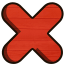
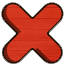
Close button position fix

Changed region(s): [[0.0, 0.0303, 0.9697, 0.9697]]

diff --git a/markup/modules/Panel/PanelView.js b/markup/modules/Panel/PanelView.js
@@ -278,7 +278,9 @@ export let view = (() => {
             infoRules.scale.set(1.3);
             model.el('infoRules', infoRules);
 
-            let closed = game.add.sprite(game.width - 410, 210, 'closed', null, container);
+            let closed = game.add.sprite(infoRules.right, infoRules.top, 'closed', null, container);
+            closed.x -= closed.width;
+            closed.y += 40;
             model.el('closed', closed);
 
             let infoControllers = game.add.group();
